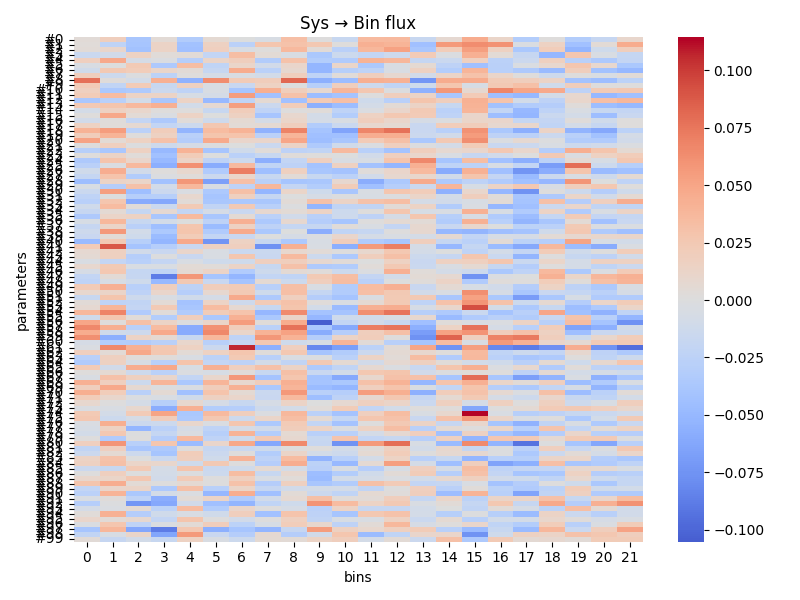
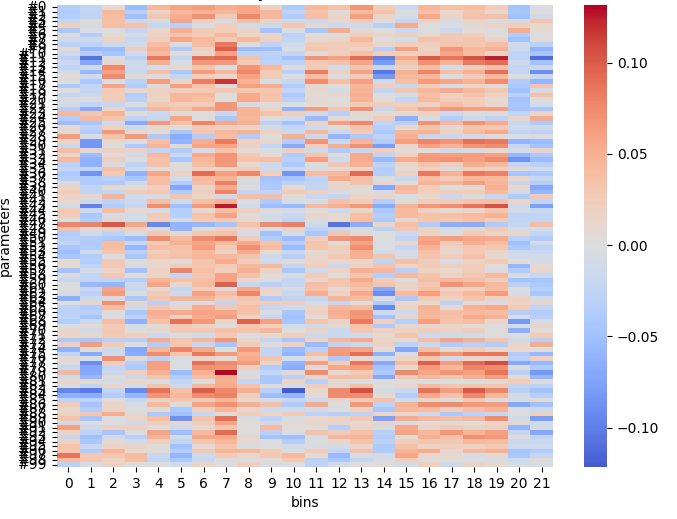
R understood, added some noise or a normalization of Y_pred per bin. Updated plots.

diff --git a/src/features.py b/src/features.py
@@ -215,6 +215,8 @@ def propagate_to_hist(y_nominal, theta, mean, R):
     shift = R @ delta
 
     shift = np.tanh(shift)
+    print("shift std over bins:", np.std(shift))
+    print("shift per bin variance:", np.var(shift, axis=0))
 
     return y_nominal * (1 + 0.1 * shift)
 
@@ -244,6 +246,8 @@ def histogram_prediction_pseudo_data(
                 )
                 y = predictions[key]["values"]
                 R = R_dict[key]
+                print("R per bin variance:", np.std(R, axis=1))
+                #R += 0.01 * np.random.randn(*R.shape) #break uniformity of R across bins, to make it more realistic
 
                 theta_samples = sample_theta(mean, cov, n_samples)
 

diff --git a/src/visualization.py b/src/visualization.py
@@ -278,13 +278,15 @@ def heatmap_visualization(predictions, R_dict, mean, cov,
                 ])
 
                 y0 = y
-                Y_norm = Y / (y0 + 1e-8) - 1
+                #Y_norm = Y / (y0 + 1e-8) - 1
+                Y_norm = (Y - y0)/(np.std(Y, axis=0) + 1e-8)#normalization per bin
 
                 print("bouuuuu")
 
                 corr_sys_bin = np.corrcoef(
                     X.T, Y_norm.T
                 )[:X.shape[1], X.shape[1]:]
+                print("bin-wise correlation variance:",np.std(corr_sys_bin, axis=0).mean())
 
                 print("blblblbl")
 
